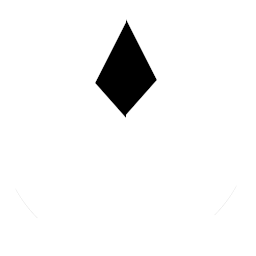
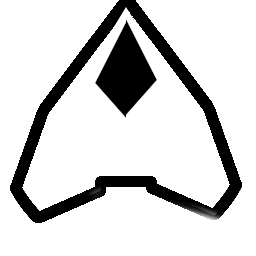
first appearance of players and ships

Changed region(s): [[0.0312, 0.0, 0.9688, 0.875]]

diff --git a/src/renderer/godot2d/mod.rs b/src/renderer/godot2d/mod.rs
@@ -1,9 +1,12 @@
 pub mod planet;
 
+use std::rc::Rc;
+
 use gdnative::*;
 
 use planet::Planet;
 use crate::local::starmap::*;
+use crate::local::player::*;
 
 #[derive(Debug, Clone, PartialEq)]
 pub enum ManageErrs {
@@ -18,8 +21,10 @@ pub enum ManageErrs {
 pub struct Main {
     #[property]
     planet: PackedScene,
+    #[property]
+    ship: PackedScene,
     starmap: Option<Starmap<Node2D>>,
-    players: List<Player<Node2D>>,
+    players: Vec<Player<Node2D>>,
 }
 
 #[methods]
@@ -28,13 +33,15 @@ impl Main {
     fn _init(_owner: Node) -> Self {
         Main {
             planet: PackedScene::new(),
-            starmap: None
+            ship: PackedScene::new(),
+            starmap: None,
+            players: vec!()
         }
     }
     
     #[export]
     unsafe fn _ready(&mut self, mut owner: Node) {
-        let starmap = Starmap::new(10)
+        let mut starmap = Starmap::new(10)
             .with_generator(|id| {
                 let planet_node: Node2D = instance_scene(&self.planet).unwrap();
                 owner.add_child(Some(planet_node.to_node()), false);
@@ -55,20 +62,14 @@ impl Main {
             .build();
         starmap.get_planets_by_max_distance(2, |planet1, planet2| {
             Main::distance_between(planet1, planet2)
-        }).iter().for_each(|planet_node| {
+        }).iter_mut().for_each(|planet_node| {
             let planet_instance = Instance::<Planet>::try_from_unsafe_base(**planet_node).unwrap();
                 planet_instance.map_mut(|planet, _planet_owner| {
                     planet.set_resources(100.0, 1.02);
                 }).unwrap();
 
-            let ship_node: Node2D = instance_scene(&self.planet).unwrap();
-            owner.add_child(Some(planet_node.to_node()), false);
-
-            let planet_instance = Instance::<Planet>::try_from_unsafe_base(planet_node).unwrap();
-            planet_instance.map_mut(|planet, planet_owner| {
-                planet.set_random_features(planet_owner);
-                planet.set_id(id);
-            }).unwrap();
+                let ship_node: Node2D = instance_scene(&self.ship).unwrap();
+                Rc::get_mut(planet_node).unwrap().add_child(Some(ship_node.to_node()), false);
         });
         self.starmap = Some(starmap);
     }

diff --git a/src/local/starmap/mod.rs b/src/local/starmap/mod.rs
@@ -1,11 +1,13 @@
 pub mod builder;
 
+use std::rc::Rc;
+
 use gdnative::GodotObject;
 
 use builder::StarmapBuilder;
 
 pub struct Starmap<T: GodotObject> {
-    pub planets: Vec<T>
+    pub planets: Vec<Rc<T>>
 }
 
 impl <T: GodotObject> Starmap<T> {
@@ -18,13 +20,15 @@ impl <T: GodotObject> Starmap<T> {
         StarmapBuilder::new(count)
     }   
 
-    pub fn get_planets_by_max_distance<F>(&self, count: usize, distance_fn: F) -> Vec<&T>
+    pub fn get_planets_by_max_distance<F>(&mut self, count: usize, distance_fn: F) -> Vec<Rc<T>>
     where
         F: Fn(&T, &T) -> f32,
     {
         let mut max_distance = 0.0;
         let mut first = 0;
-        let mut planets:Vec<&T> = self.planets.iter().collect();
+        let mut planets:Vec<Rc<T>> = vec!();
+        planets.append(&mut self.planets);
+
         for i in 0..planets.len() {
             for j in i..planets.len() {
                 let distance = distance_fn(&planets[i], &planets[j]);

diff --git a/src/local/starmap/builder.rs b/src/local/starmap/builder.rs
@@ -1,3 +1,5 @@
+use std::rc::Rc;
+
 use gdnative::GodotObject;
 
 use super::Starmap;
@@ -48,7 +50,7 @@ where
         }
     }
     pub fn build(self) -> Starmap<T> {
-        let mut planets: Vec<T> = vec!();
+        let mut planets: Vec<Rc<T>> = vec!();
         let mut planets_invalid_indexes: Vec<usize> = (0..self.count).rev().collect();
 
         let mut generator = self.generator.unwrap();
@@ -58,7 +60,7 @@ where
         while planets.len() < self.count {
             planets_invalid_indexes.reverse();
             for i in &planets_invalid_indexes {
-                let planet = generator(*i);
+                let planet = Rc::new(generator(*i));
                 planets.insert(*i, planet);
             }
 

diff --git a/src/local/player/mod.rs b/src/local/player/mod.rs
@@ -1,0 +1,6 @@
+
+use gdnative::GodotObject;
+
+pub struct Player<T: GodotObject> {
+    pub ships: Vec<T>
+}

diff --git a/src/local/mod.rs b/src/local/mod.rs
@@ -1,1 +1,2 @@
+pub mod player;
 pub mod starmap;
